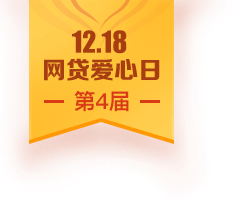
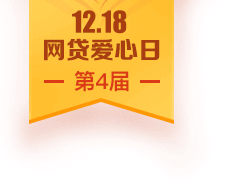
update

Changed region(s): [[0.1129, 0.0, 0.7056, 0.6735], [0.5645, 0.4592, 0.6492, 0.4898], [0.1694, 0.4592, 0.254, 0.4898]]

diff --git a/activity/tuandai161218/sass/chest.scss b/activity/tuandai161218/sass/chest.scss
@@ -342,7 +342,7 @@
                 }
             }
             .gift-icon {
-                font-size: pxToRem(60px);
+                font-size: pxToRem(50px);
                 font-weight: bold;
                 color: #fffce4;
                 line-height: pxToRem(120px);
@@ -482,11 +482,13 @@
             .list-wrapper {
                 width: pxToRem(650px);
                 height: pxToRem(510px);
-                background-color: #fff8c2;
+                // background-color: #fff8c2;
+                background-color: #fffbe5;
                 border-radius: pxToRem(10px);
                 margin: auto;
                 margin-top: pxToRem(72px);
                 .chest-type-wrapper {
+                    background-color: #fff8c2;
                     font-size: 0;
                     height: pxToRem(76px);
                     line-height: pxToRem(76px);

diff --git a/activity/tuandai161218/sass/index.scss b/activity/tuandai161218/sass/index.scss
@@ -39,9 +39,9 @@
     position: relative;
     &:before {
         content: "";
-        @include icon-background('../images/m-label.png',
+        @include icon-background('../images/m-label.png?v=2016121701',
         248px,
-        215px);
+        196px);
         @extend .icon-block;
         position: absolute;
         top: 0;
@@ -150,11 +150,15 @@
         }
     }
     .desc-num {
-        font-size: pxToRem(60px);
-        color: #ff6813;
-        text-shadow: 0px 1px 2px rgb( 255, 94, 0);
+        font-size: pxToRem(54px);
+        color: rgb( 255, 104, 19 );
+        text-shadow: 0px pxToRem(1px) pxToRem(2px) rgb( 255, 94, 0);
+        font {
+            font-size: pxToRem(48px);
+        }
     }
 }
+
 
 .btn-join {
     background-image: linear-gradient( 0deg, rgb(255, 206, 11) 0%, rgb(255, 254, 185) 100%);

diff --git a/activity/tuandai161218/html/index.html b/activity/tuandai161218/html/index.html
@@ -33,9 +33,9 @@
                 <div class="desc-cont">
                     <ul class="desc">
                         <li class="desc-title"><span>成交金额</span></li>
-                        <li class="desc-num">10,000,000,000.00元</li>
+                        <li class="desc-num">1,000,000,000.00<font>元</font></li>
                         <li class="desc-title"><span>交易人数</span></li>
-                        <li class="desc-num">56689人</li>
+                        <li class="desc-num">56689<font>人</font></li>
                     </ul>
                 </div>
                 <div class="btn-join">12.18团贷网爱心专场<i class="m-arrow"></i></div>
